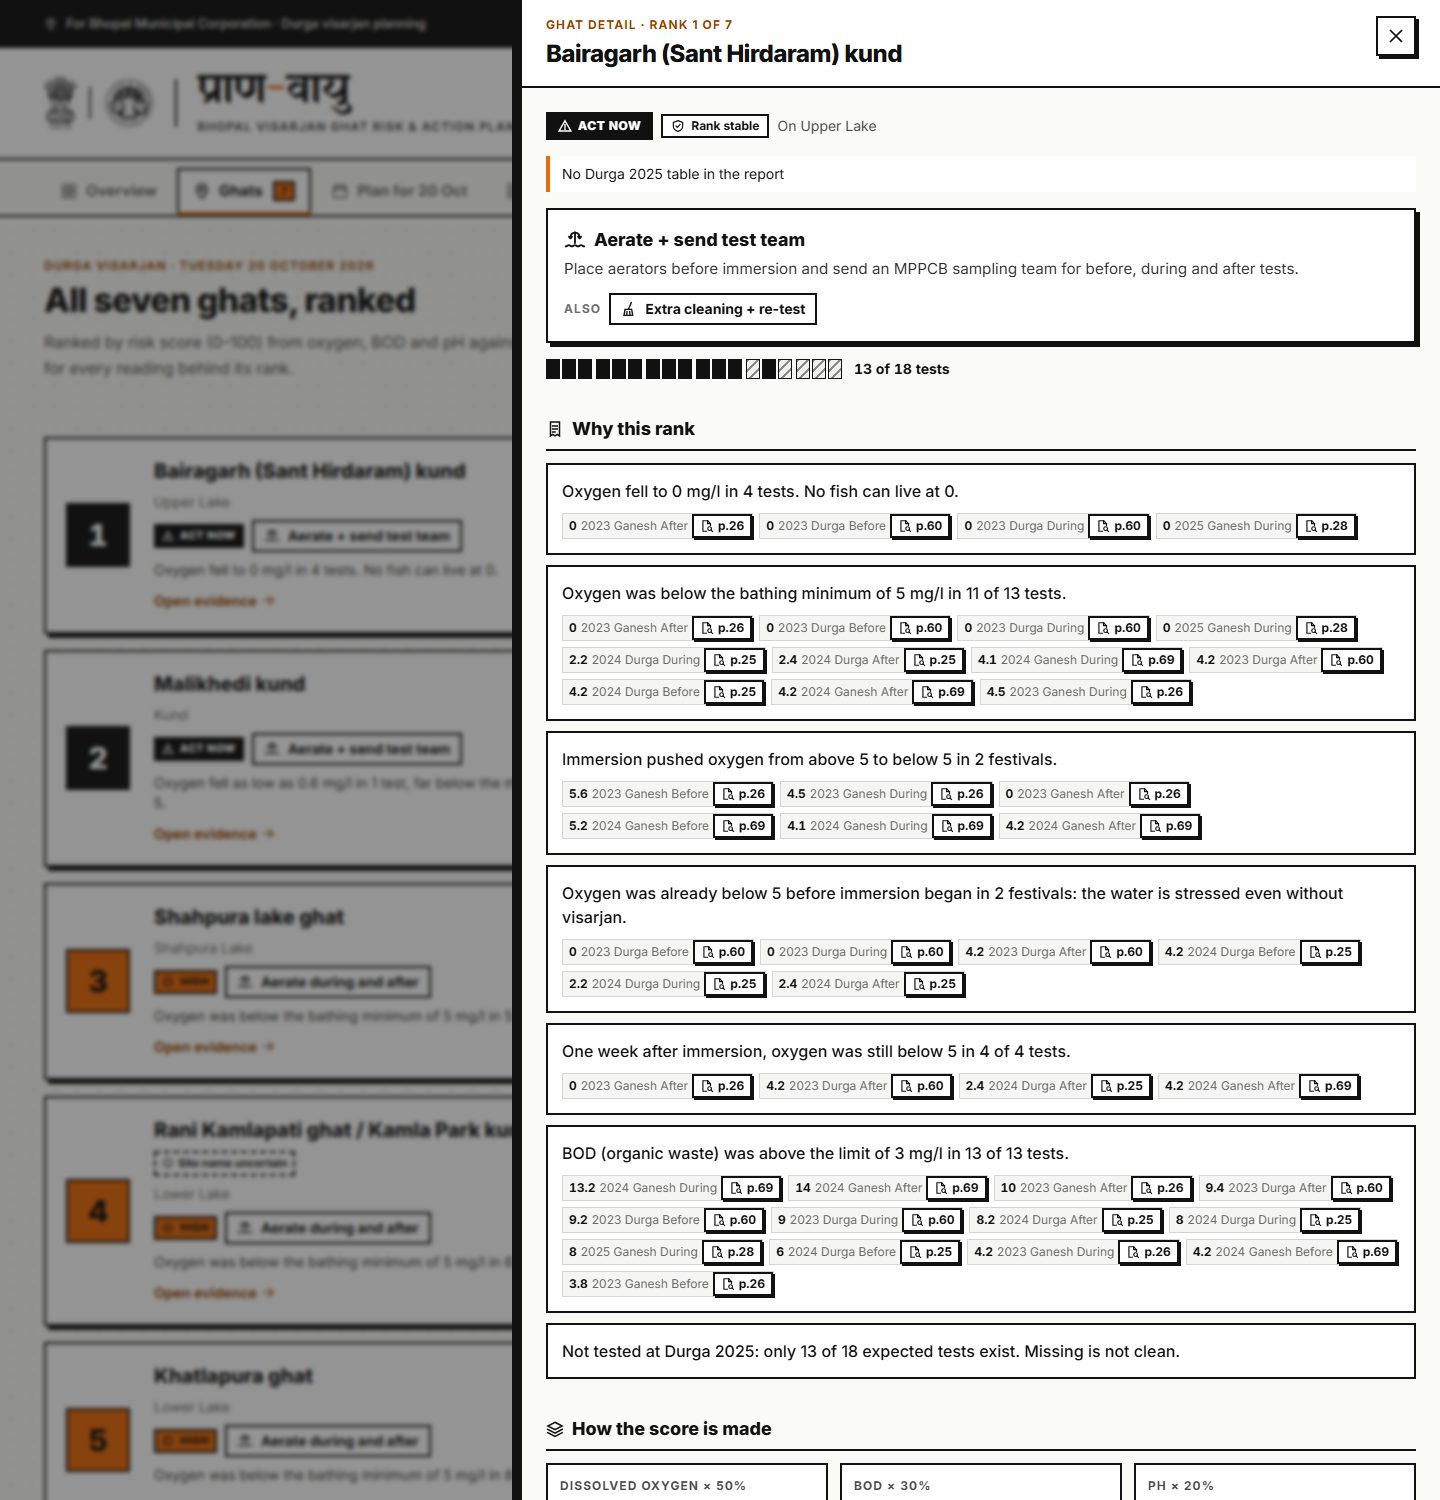
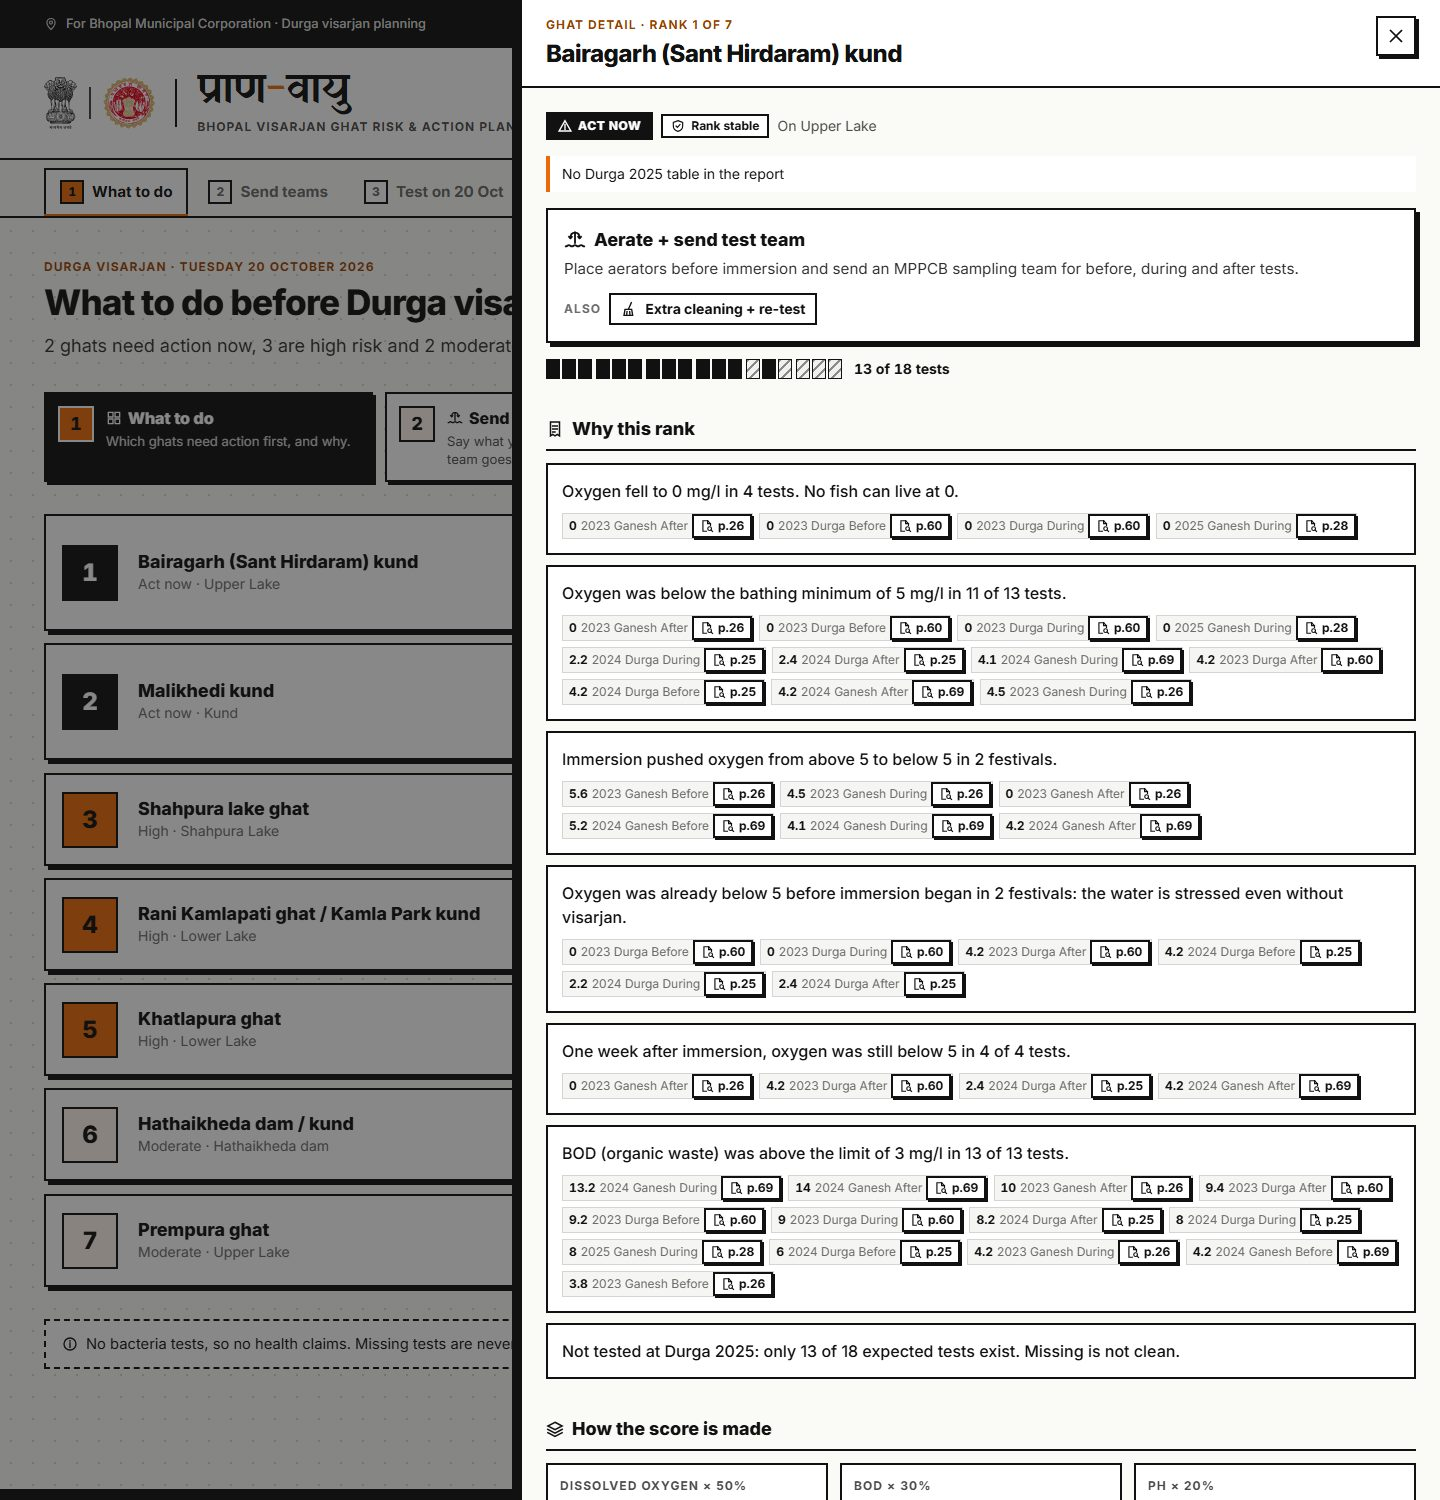
README: live link, the four-step loop, AI assistant setup, similar systems elsewhere, next steps; new screenshots

Changed region(s): [[0.0, 0.0, 0.375, 1.0]]

diff --git a/README.md b/README.md
@@ -9,7 +9,7 @@ Claude Impact Lab × Cerebras Café Compute, Bhopal · 11 October 2026 · **Trac
 | **Member** | Shriom Verma |
 | **Track** | Track 2: Visarjan Ghat Watch |
 | **The one user** | The Bhopal Municipal Corporation officer who plans Durga visarjan at the ghats and decides where to send extra cleaning, aeration and water testing |
-| **Live site** | Deployed on Vercel from this repo (every push to main redeploys) |
+| **Live site** | https://pran-vayu-12vepjdot-theta-172.vercel.app (Vercel; every push to main redeploys) |
 
 ![Opening](docs/screenshots/01-opening.jpg)
 
@@ -17,7 +17,16 @@ Claude Impact Lab × Cerebras Café Compute, Bhopal · 11 October 2026 · **Trac
 
 Durga visarjan is on **Tuesday 20 October 2026**. Three years of MPPCB water tests at Bhopal's ghats sit in 90 to 120 page PDF reports. प्राण-वायु turns them into one decision for the officer: **which ghats need action first, what action, and why**, with every number traceable to the report page it came from.
 
-**One workflow:** open the platform → see the ranked ghats and the action for each → send aerators and sampling teams → forward the Hindi + English brief.
+**One workflow, four numbered steps** (the tabs follow them, so a non-technical officer always knows where they are):
+
+| Step | Screen | What the officer does |
+|---|---|---|
+| **1** | **What to do** | Reads seven rows: each ghat's action and the reason in one line. Blind spots are flagged. "See proof" opens every reading behind it |
+| **2** | **Send teams** | Says "I have 3 aerators and 2 sampling teams"; each goes to a ghat with the reason; prints the allocation order |
+| **3** | **Test on 20 Oct** | Prints field sampling sheets for the ghats we know least about |
+| **4** | **Update** | Enters the 20 October readings; the ranking updates at once and a **Today** status appears on step 1 |
+
+**Evidence** (matrix, charts, robustness, statewide comparison, a *Check this tool* panel for organisers) and **Reports** (a report dashboard with live A4 preview) sit apart from the officer's steps. The **Brief PDF** button is in the header on every screen. An **AI assistant** answers questions and does tasks for the officer (see below).
 
 | | What the officer gets |
 |---|---|
@@ -37,14 +46,42 @@ Durga visarjan is on **Tuesday 20 October 2026**. Three years of MPPCB water tes
 6. **It keeps working on 20 October.** Officers enter the new readings; the ranking updates live and exports as CSV for MPPCB.
 7. **Every number has a receipt.** An automated check opens the three MPPCB PDFs and confirms each of the 1,467 printed values appears on the page it cites.
 
+## AI assistant
+
+The orange **Ask प्राण-वायु** button opens an assistant for an officer with no time to look around. It answers in English or Hindi **only from the platform's checked data**, cites the report page for each reading, never makes health claims, and can **act in the platform**: open a ghat's evidence, plan aerators and teams with the allocator (and explain the result), download a report, switch language, or go to a step. Each action shows as a short animated line in the chat.
+
+- Server function: [api/chat.ts](api/chat.ts) (Vercel), official `@anthropic-ai/sdk`, model `claude-opus-5-5` at low effort for quick replies, with the API's server-side refusal fallback enabled.
+- The browser sends a plain-text summary of the checked data ([src/lib/assistantContext.ts](src/lib/assistantContext.ts)); the rules live on the server.
+- **To switch it on:** Vercel project → Settings → Environment Variables → add `ANTHROPIC_API_KEY` → Redeploy. The key is never in the code or the browser.
+- It runs on the deployed site only; on `npm run dev` the panel explains this.
+
+## Similar systems elsewhere
+
+| Where | What they built | What प्राण-वायु takes from it |
+|---|---|---|
+| **UK** (Environment Agency, "Swimfo") | Each bathing water is classified, with same-day pollution-risk warnings | The **Today** status on step 1 once 20 October readings are entered |
+| **European Union** (Bathing Water Directive) | Sites tested each season, rated against limits, each with a public **bathing water profile** | Ratings against CPCB limits and one-page **ghat profiles** |
+| **USA** (EPA BEACH Act; e.g. Chicago) | Beach advisories, some driven by same-day prediction models | Listed under next steps (needs rain/weather data we don't have) |
+| **India** (CPCB idol-immersion guidelines; Kumbh Mela monitoring) | Water tested before, during and after immersion; monitoring stations at mass bathing events | This is the source of our data; the platform turns those tests into decisions |
+
+Those systems test and warn. प्राण-वायु adds the decision: **where to send the officer's limited aerators and sampling teams, and where to test the places we are blind to, on visarjan day itself.**
+
+## Next steps
+
+- Same-day risk prediction from rainfall and temperature (as UK and US beach systems do), once weather data is added
+- Sensor feeds into step 4 instead of manual entry (as at Kumbh Mela monitoring stations)
+- A checklist of the CPCB idol-immersion guideline measures per ghat, checked against the official text
+- Bacteria (coliform) tests at the ghats, without which no health statement can be made
+- Ghat coordinates and a map; the official BMC logo; review of the Hindi text by BMC staff
+
 ## Screenshots
 
-| Overview | Ghats ranked |
+| ① What to do | Evidence |
 |---|---|
 | ![Overview](docs/screenshots/02-overview.jpg) | ![Ghats](docs/screenshots/04-ghats.jpg) |
-| **Ghat detail: every reading with its report page** | **Plan for 20 October** |
+| **See proof: every reading with its report page** | **② Send teams** |
 | ![Detail](docs/screenshots/05-ghat-detail.jpg) | ![Plan](docs/screenshots/06-plan.jpg) |
-| **हिंदी** | **Brief PDF (English + हिंदी)** |
+| **हिंदी** | **Report dashboard** |
 | ![Hindi](docs/screenshots/07-hindi.jpg) | ![Brief](docs/screenshots/08-brief-pdf.jpg) |
 
 ## How to run it
@@ -98,14 +135,17 @@ Result (CPCB Class B, default weights):
 ## What works and what doesn't
 
 **Works**
-- Overview, Ghats, Plan for 20 Oct and Reports tabs, in English (default) and Hindi
+- The four officer steps (What to do, Send teams, Test on 20 Oct, Update), Evidence and Reports, in English (default) and Hindi
 - Ranking, actions, reasons, Verify links to report pages, test coverage, rank stability, statewide comparison
 - Ghat × test matrix, before/after-immersion chart, per-festival charts, full evidence table (scored tests or all 13)
 - Resource allocator, field sampling sheets, allocation order, 20 October reading entry with validation, CSV export and live re-ranking
 - PDFs: bilingual brief, ghat reports (English and Hindi), method and limits (English and Hindi); WhatsApp message with copy and share
 - Government-style top bar (skip link, text size, language), keyboard navigation, reduced-motion support
+- AI assistant on the deployed site once `ANTHROPIC_API_KEY` is set in Vercel
+- Report dashboard: any report, language and ghat selection with a live A4 preview
 
 **Doesn't, or only partly**
+- **The AI assistant needs the API key in Vercel** and an internet connection; AI answers can be wrong, so the panel tells officers to check numbers with the Verify links.
 - **BMC logo is not included.** No openly licensed copy was found, and downloading it from the BMC website would break the event's rule on government portals. Drop the official file at `src/assets/brand/bmc-logo.svg` (or `.png`) and it appears in the header and on every PDF.
 - **20 October readings stay in one browser.** There is no server, by design, so readings are not shared between officers; use the CSV export.
 - **Re-ranking with 20 October readings updates the scores and order only.** Blind-spot flags and the PDF brief still describe the 2023–2025 reports.
@@ -145,12 +185,13 @@ All data comes from the official participant pack ([Laaaaksh/bhopal-impact-lab-2
 
 ## Built with
 
-TypeScript · React · Vite · Tailwind CSS · Motion (animation) · Lenis (smooth scrolling) · d3-scale (chart maths, all charts are hand-built SVG) · Zod (row checks) · PapaParse · pdf.js (receipt check) · Playwright (PDFs) · Vitest. Fonts: Yatra One (the name), Inter, Noto Sans Devanagari, all bundled for offline use. Built with Claude Code.
+TypeScript · React · Vite · Tailwind CSS · Motion (animation) · Anthropic SDK (assistant) · d3-scale (chart maths, all charts are hand-built SVG) · Zod (row checks) · PapaParse · pdf.js (receipt check) · Playwright (PDFs) · Vitest. Fonts: Yatra One (the name), Inter, Noto Sans Devanagari, all bundled for offline use. Built with Claude Code.
 
 ```
 data/                 official CSVs, unchanged
 public/reports/       the three MPPCB report PDFs (Verify links open these)
 public/pdfs/          generated PDFs (npm run pdf)
+api/chat.ts           AI assistant (Vercel function; key from ANTHROPIC_API_KEY)
 scripts/              build-data (checks + scoring), verify-receipts, build-pdfs, screenshot
 src/core/             data rules, scoring, robustness, statewide, allocator, field entries (no UI; tested)
 src/components/       design system, charts, views, print templates
